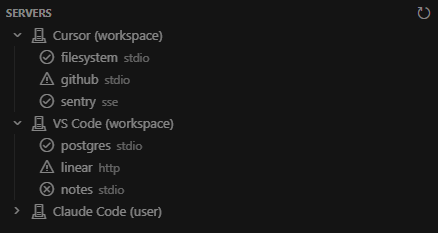
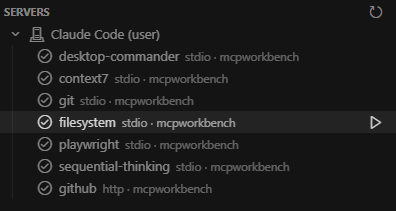
Add LICENSE and changelog, refresh README, hide home dir in tooltips
- LICENSE: MIT. package.json gains the matching "license" field, which
  also clears the vsce packaging warning.
- CHANGELOG.md: 0.1.0 initial release in Keep a Changelog format.
- README: add a License section, document the empty-root-key and
  non-string validation checks, note the ~/.claude.json workspace scoping
  and showAllClaudeProjects setting, trim the roadmap to drop shipped
  work, and refresh the panel and tooltip screenshots.
- serversTree: collapse the home directory to ~ in the tooltip's Project
  line too, matching the Config line. homePath is now separator-aware so
  a forward-slash project path is handled, which keeps the local username
  out of the tooltip.

diff --git a/src/serversTree.ts b/src/serversTree.ts
@@ -97,7 +97,7 @@ export class ServersProvider implements vscode.TreeDataProvider<Node> {
       [
         `**${mdText(server.name)}** · \`${server.transport.kind}\``,
         `Source: ${mdText(SOURCE_LABELS[server.source])}`,
-        ...(server.scope ? [`Project: \`${mdCode(server.scope)}\``] : []),
+        ...(server.scope ? [`Project: \`${mdCode(homePath(server.scope))}\``] : []),
         `Config: \`${mdCode(homePath(server.configPath))}\``,
         ...server.issues.map((i) => `- ${i.level === "error" ? "❌" : "⚠️"} ${mdText(i.message)}`),
       ].join("\n\n"),
@@ -122,10 +122,12 @@ function baseName(p: string): string {
 }
 
 function homePath(p: string): string {
-  if (p.toLowerCase() === HOME.toLowerCase()) {
+  const lower = p.replace(/\\/g, "/").toLowerCase();
+  const home = HOME.replace(/\\/g, "/").toLowerCase();
+  if (lower === home) {
     return "~";
   }
-  if (p.toLowerCase().startsWith(HOME.toLowerCase())) {
+  if (lower.startsWith(home)) {
     const next = p[HOME.length];
     if (next === "/" || next === "\\") {
       return "~" + p.slice(HOME.length);

diff --git a/CHANGELOG.md b/CHANGELOG.md
@@ -1,0 +1,22 @@
+# Changelog
+
+All notable changes to MCP Workbench are documented in this file. The format is based on
+[Keep a Changelog](https://keepachangelog.com/en/1.1.0/), and this project adheres to
+[Semantic Versioning](https://semver.org/spec/v2.0.0.html).
+
+## [0.1.0] - 2026-06-21
+
+Initial release.
+
+### Added
+
+- Unified discovery of MCP servers across Cursor, VS Code, Claude Code, and Claude Desktop, with one node per config file.
+- Transport normalization so `stdio`, `http`, and `sse` servers are shown with a consistent shape regardless of each editor's field conventions.
+- Configuration validation that surfaces the silent failures: wrong root key, unparseable JSON, empty root key, `npx` without `-y`, non-string args/env values, and `${ENV}` references that aren't set.
+- Connection testing: a live MCP `initialize` + `tools/list` handshake rendered in a themed webview, listing server capabilities and each tool's input schema, or the exact reason a connection failed.
+- Per-project discovery from `~/.claude.json`, scoped to the open workspace by default with a `mcpWorkbench.showAllClaudeProjects` setting to list every recorded project.
+- Live refresh when any watched workspace or global config file changes.
+
+### Security
+
+- Spawned stdio servers receive only their explicitly configured environment plus the MCP SDK's safe default allowlist, never the full process environment, so secrets such as tokens and credentials are not handed to tested servers.

diff --git a/README.md b/README.md
@@ -36,6 +36,8 @@ Hover any server to see its source, the exact config file it came from, and ever
 | Claude Code (user) | `~/.claude.json` | `mcpServers` |
 | Claude Desktop | `~/.claude/claude_desktop_config.json` | `mcpServers` |
 
+Servers recorded per project under `projects["<path>"].mcpServers` in `~/.claude.json` are scoped to the open workspace folder by default. Set `mcpWorkbench.showAllClaudeProjects` to list every recorded project. Edits to the global config files above refresh the tree automatically.
+
 ## Validation checks
 
 | Issue | Level | What it catches |
@@ -43,8 +45,10 @@ Hover any server to see its source, the exact config file it came from, and ever
 | `missing-root-key` | error | The right file with the wrong top-level key, so the editor loads no servers without warning. |
 | `bad-json` | error | A config file that can't be parsed. |
 | `unknown-transport` | error | An entry with neither a `command` (stdio) nor a `url` (http/sse). |
+| `empty-root-key` | warning | The root key is present but defines no servers. |
 | `npx-missing-y` | warning | `npx` without `-y`/`--yes`, which can hang waiting for an install prompt. |
 | `env-unset` | warning | A `${VAR}` / `${env:VAR}` reference that isn't set in your environment. |
+| `non-string-arg` / `non-string-value` | warning | A non-string arg, env value, or header that would otherwise be silently coerced. |
 
 ## Getting started
 
@@ -77,5 +81,8 @@ Then reload Cursor and open the MCP Workbench panel from the activity bar.
 ## Roadmap
 
 - Fire a live `tools/call` from the test panel and render the result.
-- Parse per-project servers nested under `projects["<path>"].mcpServers` in `~/.claude.json`.
 - Opt-in support for VS Code user-profile `mcp.json` paths.
+
+## License
+
+[MIT](LICENSE)